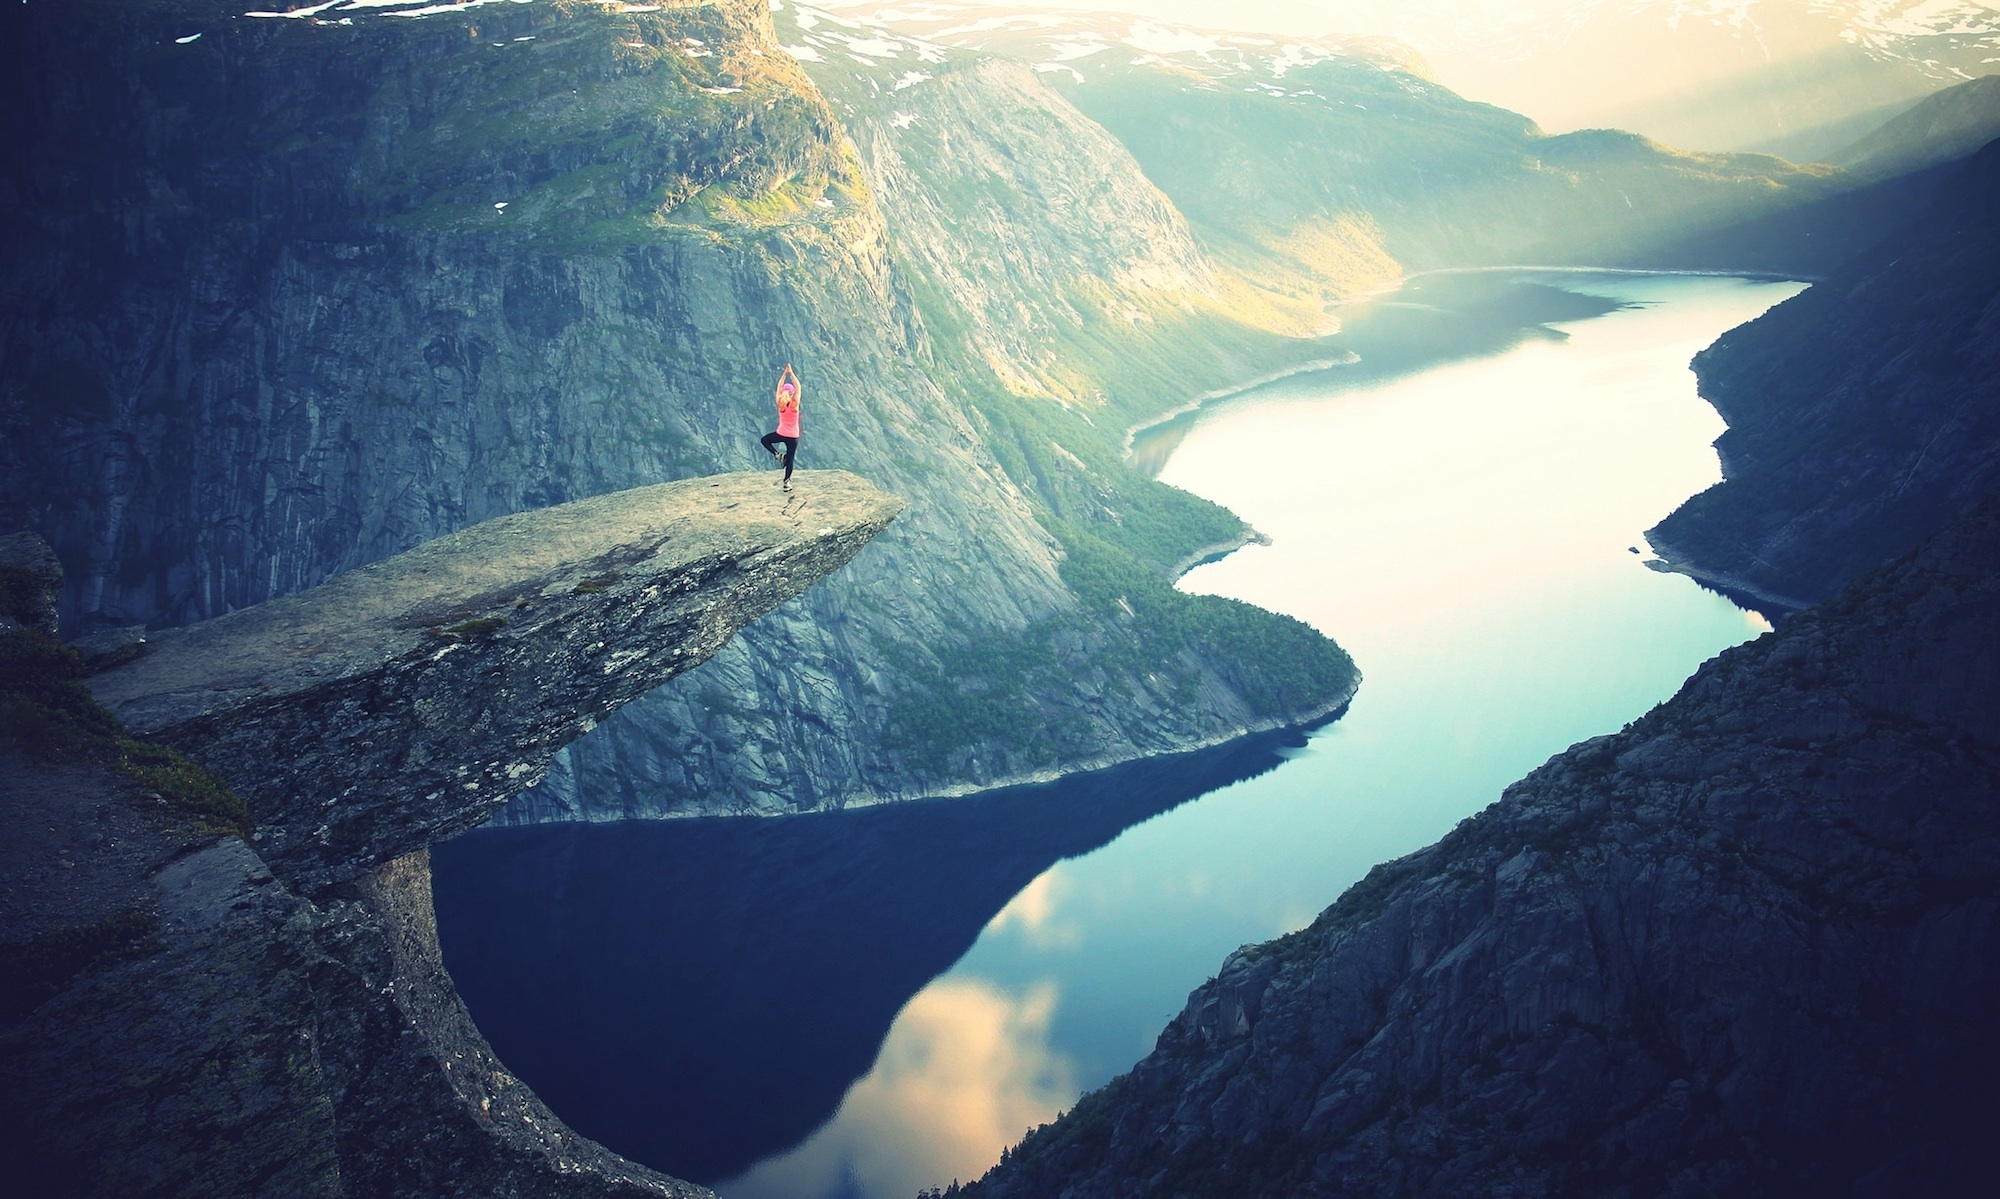
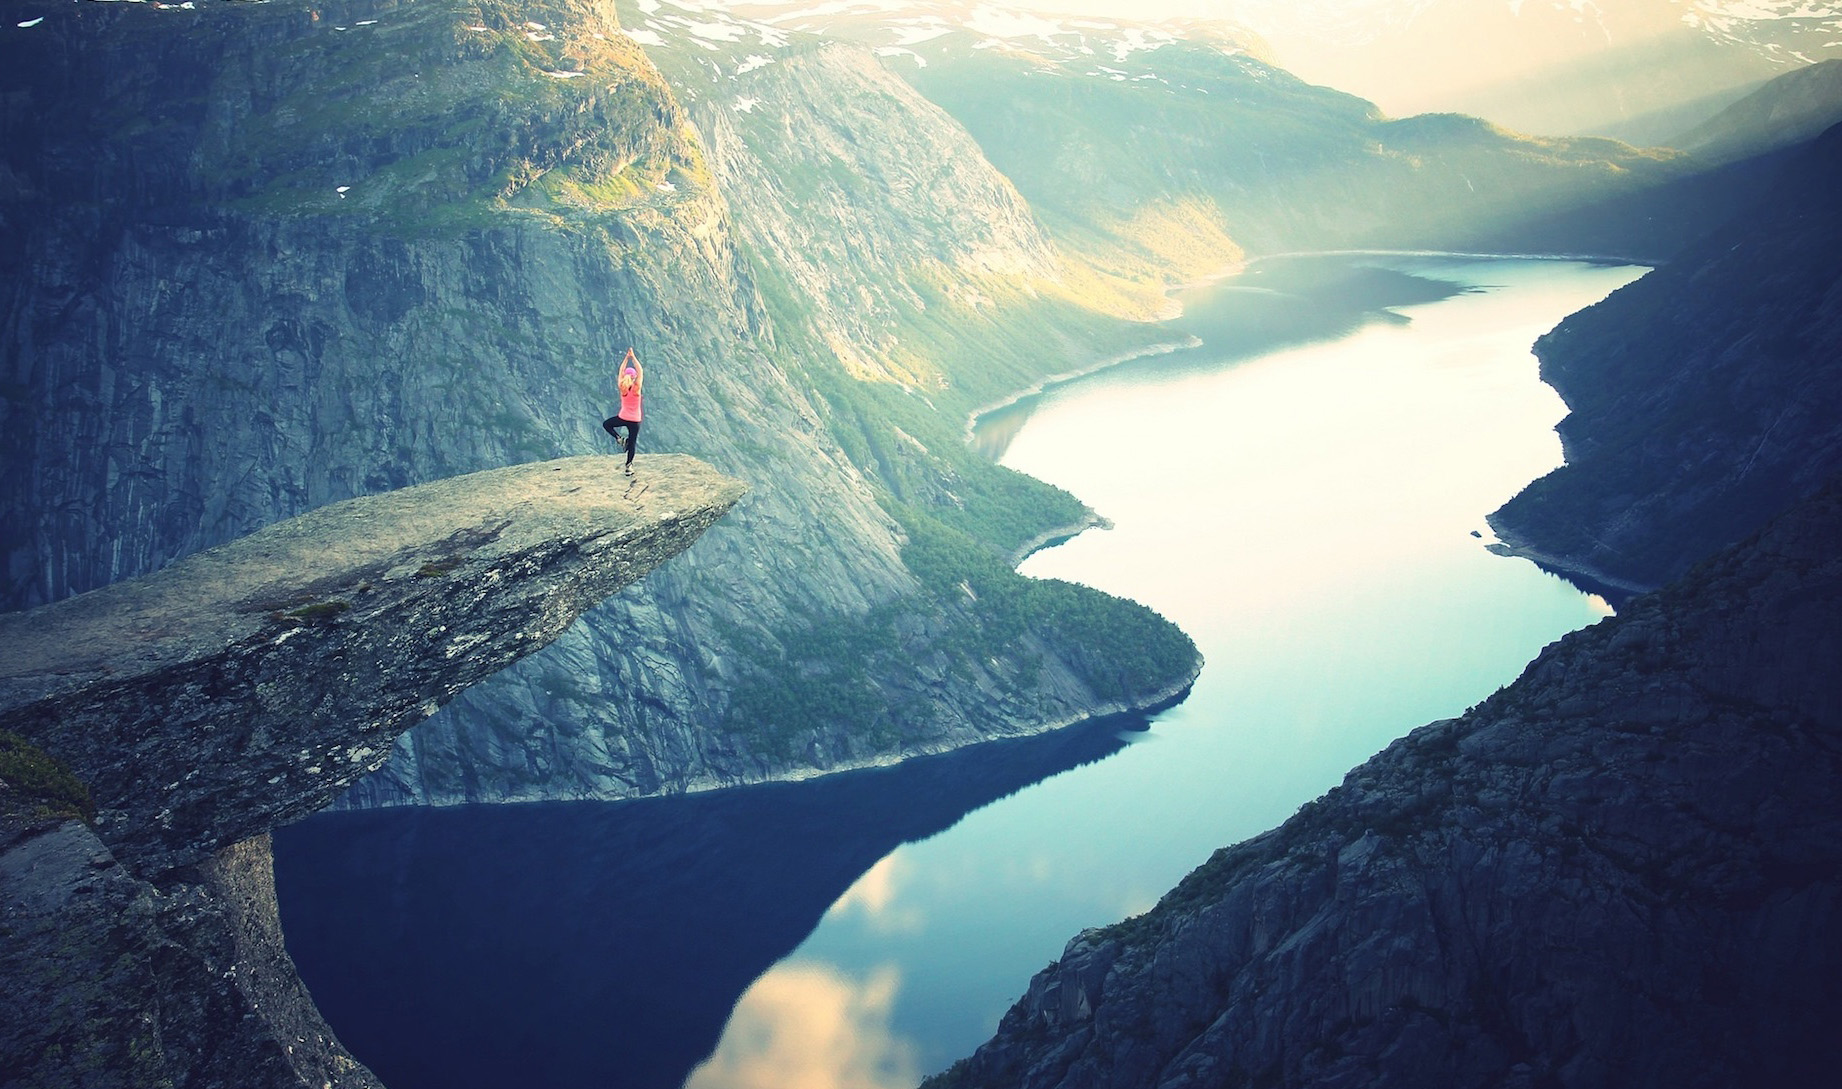
refactor stylesheet for relative units

diff --git a/css/style.css b/css/style.css
@@ -2,11 +2,12 @@
 /*       PROJECT COLORS      */
 /* ========================= */
 
-/* ----- ACCENT COLORS ----- */
+/* ----- COLORS ----- */
 /*
 Light green: #7ed56f;
 Medium green: #55c57a;
 Dark green: #28b485;
+White: #fff;
 */
 
 /* ----- FONT COLORS ----- */
@@ -25,13 +26,17 @@ grey: #777;
   box-sizing: border-box;
 }
 
+html {
+  /* sets base 10 for easier rem calculations */
+  font-size: 10px;
+}
+
 body {
   font-family: "Lato", sans-serif;
   font-weight: 400;
-  font-size: 16px;
   line-height: 1.7;
   color: #777;
-  padding: 30px;
+  padding: 3rem;
 }
 
 /* ========================= */
@@ -47,7 +52,7 @@ body {
       rgba(128, 214, 113, 0.75),
       rgba(40, 180, 131, 0.75) 60%
     ),
-    url("../img/hero-cropped.jpg");
+    url("../img/hero.jpg");
   background-size: cover;
   background-position: top;
   position: relative;
@@ -59,23 +64,23 @@ body {
 
 .logo-box {
   position: absolute;
-  top: 40px;
-  left: 40px;
+  top: 4rem;
+  left: 4rem;
 }
 
 .logo {
   float: left;
-  height: 35px;
+  height: 3.5rem;
 }
 
 .company-name {
   display: inline-block;
   color: #fff;
-  font-size: 20px;
+  font-size: 2rem;
   font-weight: 400;
-  letter-spacing: 17px;
+  letter-spacing: 1.7rem;
   text-transform: uppercase;
-  margin-left: 25px;
+  margin-left: 2.5rem;
 }
 
 /* ----- HEADING TEXT ----- */
@@ -97,19 +102,19 @@ body {
 
 .heading-primary-main {
   display: block;
-  font-size: 85px;
+  font-size: 8.5rem;
   font-weight: 100;
-  letter-spacing: 30px;
+  letter-spacing: 3rem;
 
   animation: moveInLeft 1.5s ease-out;
 }
 
 .heading-primary-subtext {
   display: block;
-  font-size: 20px;
+  font-size: 2rem;
   font-weight: 400;
-  letter-spacing: 17px;
-  margin-bottom: 60px;
+  letter-spacing: 1.7rem;
+  margin-bottom: 6rem;
 
   animation: moveInRight 1.5s ease-out;
 }
@@ -119,7 +124,7 @@ body {
 @keyframes moveInLeft {
   0% {
     opacity: 0;
-    transform: translateX(-50px);
+    transform: translateX(-5rem);
   }
 
   100% {
@@ -131,7 +136,7 @@ body {
 @keyframes moveInRight {
   0% {
     opacity: 0;
-    transform: translateX(50px);
+    transform: translateX(5rem);
   }
 
   100% {
@@ -143,7 +148,7 @@ body {
 @keyframes moveInBottom {
   0% {
     opacity: 0;
-    transform: translateY(25px);
+    transform: translateY(2.5rem);
   }
 
   100% {
@@ -159,21 +164,21 @@ body {
   text-transform: uppercase;
   text-decoration: none;
   display: inline-block;
-  padding: 15px 40px;
+  padding: 1.5rem 4rem;
   text-align: center;
-  border-radius: 2px;
+  border-radius: 0.2rem;
   transition: all 0.2s;
   position: relative;
 }
 
 .btn:hover {
-  transform: translateY(-2px);
-  box-shadow: 2px 10px 20px rgba(0, 0, 0, 0.15);
+  transform: translateY(-0.2rem);
+  box-shadow: 0.2rem 1rem 2rem rgba(0, 0, 0, 0.15);
 }
 
 .btn:active {
   transform: translateY(-0.5px);
-  box-shadow: 1px 5px 10px rgba(0, 0, 0, 0.15);
+  box-shadow: 0.1rem 0.5rem 1rem rgba(0, 0, 0, 0.15);
 }
 
 .btn-white {
@@ -186,7 +191,7 @@ body {
   display: inline-block;
   height: 100%;
   width: 100%;
-  border-radius: 2px;
+  border-radius: 0.2rem;
   position: absolute;
   top: 0;
   left: 0;
